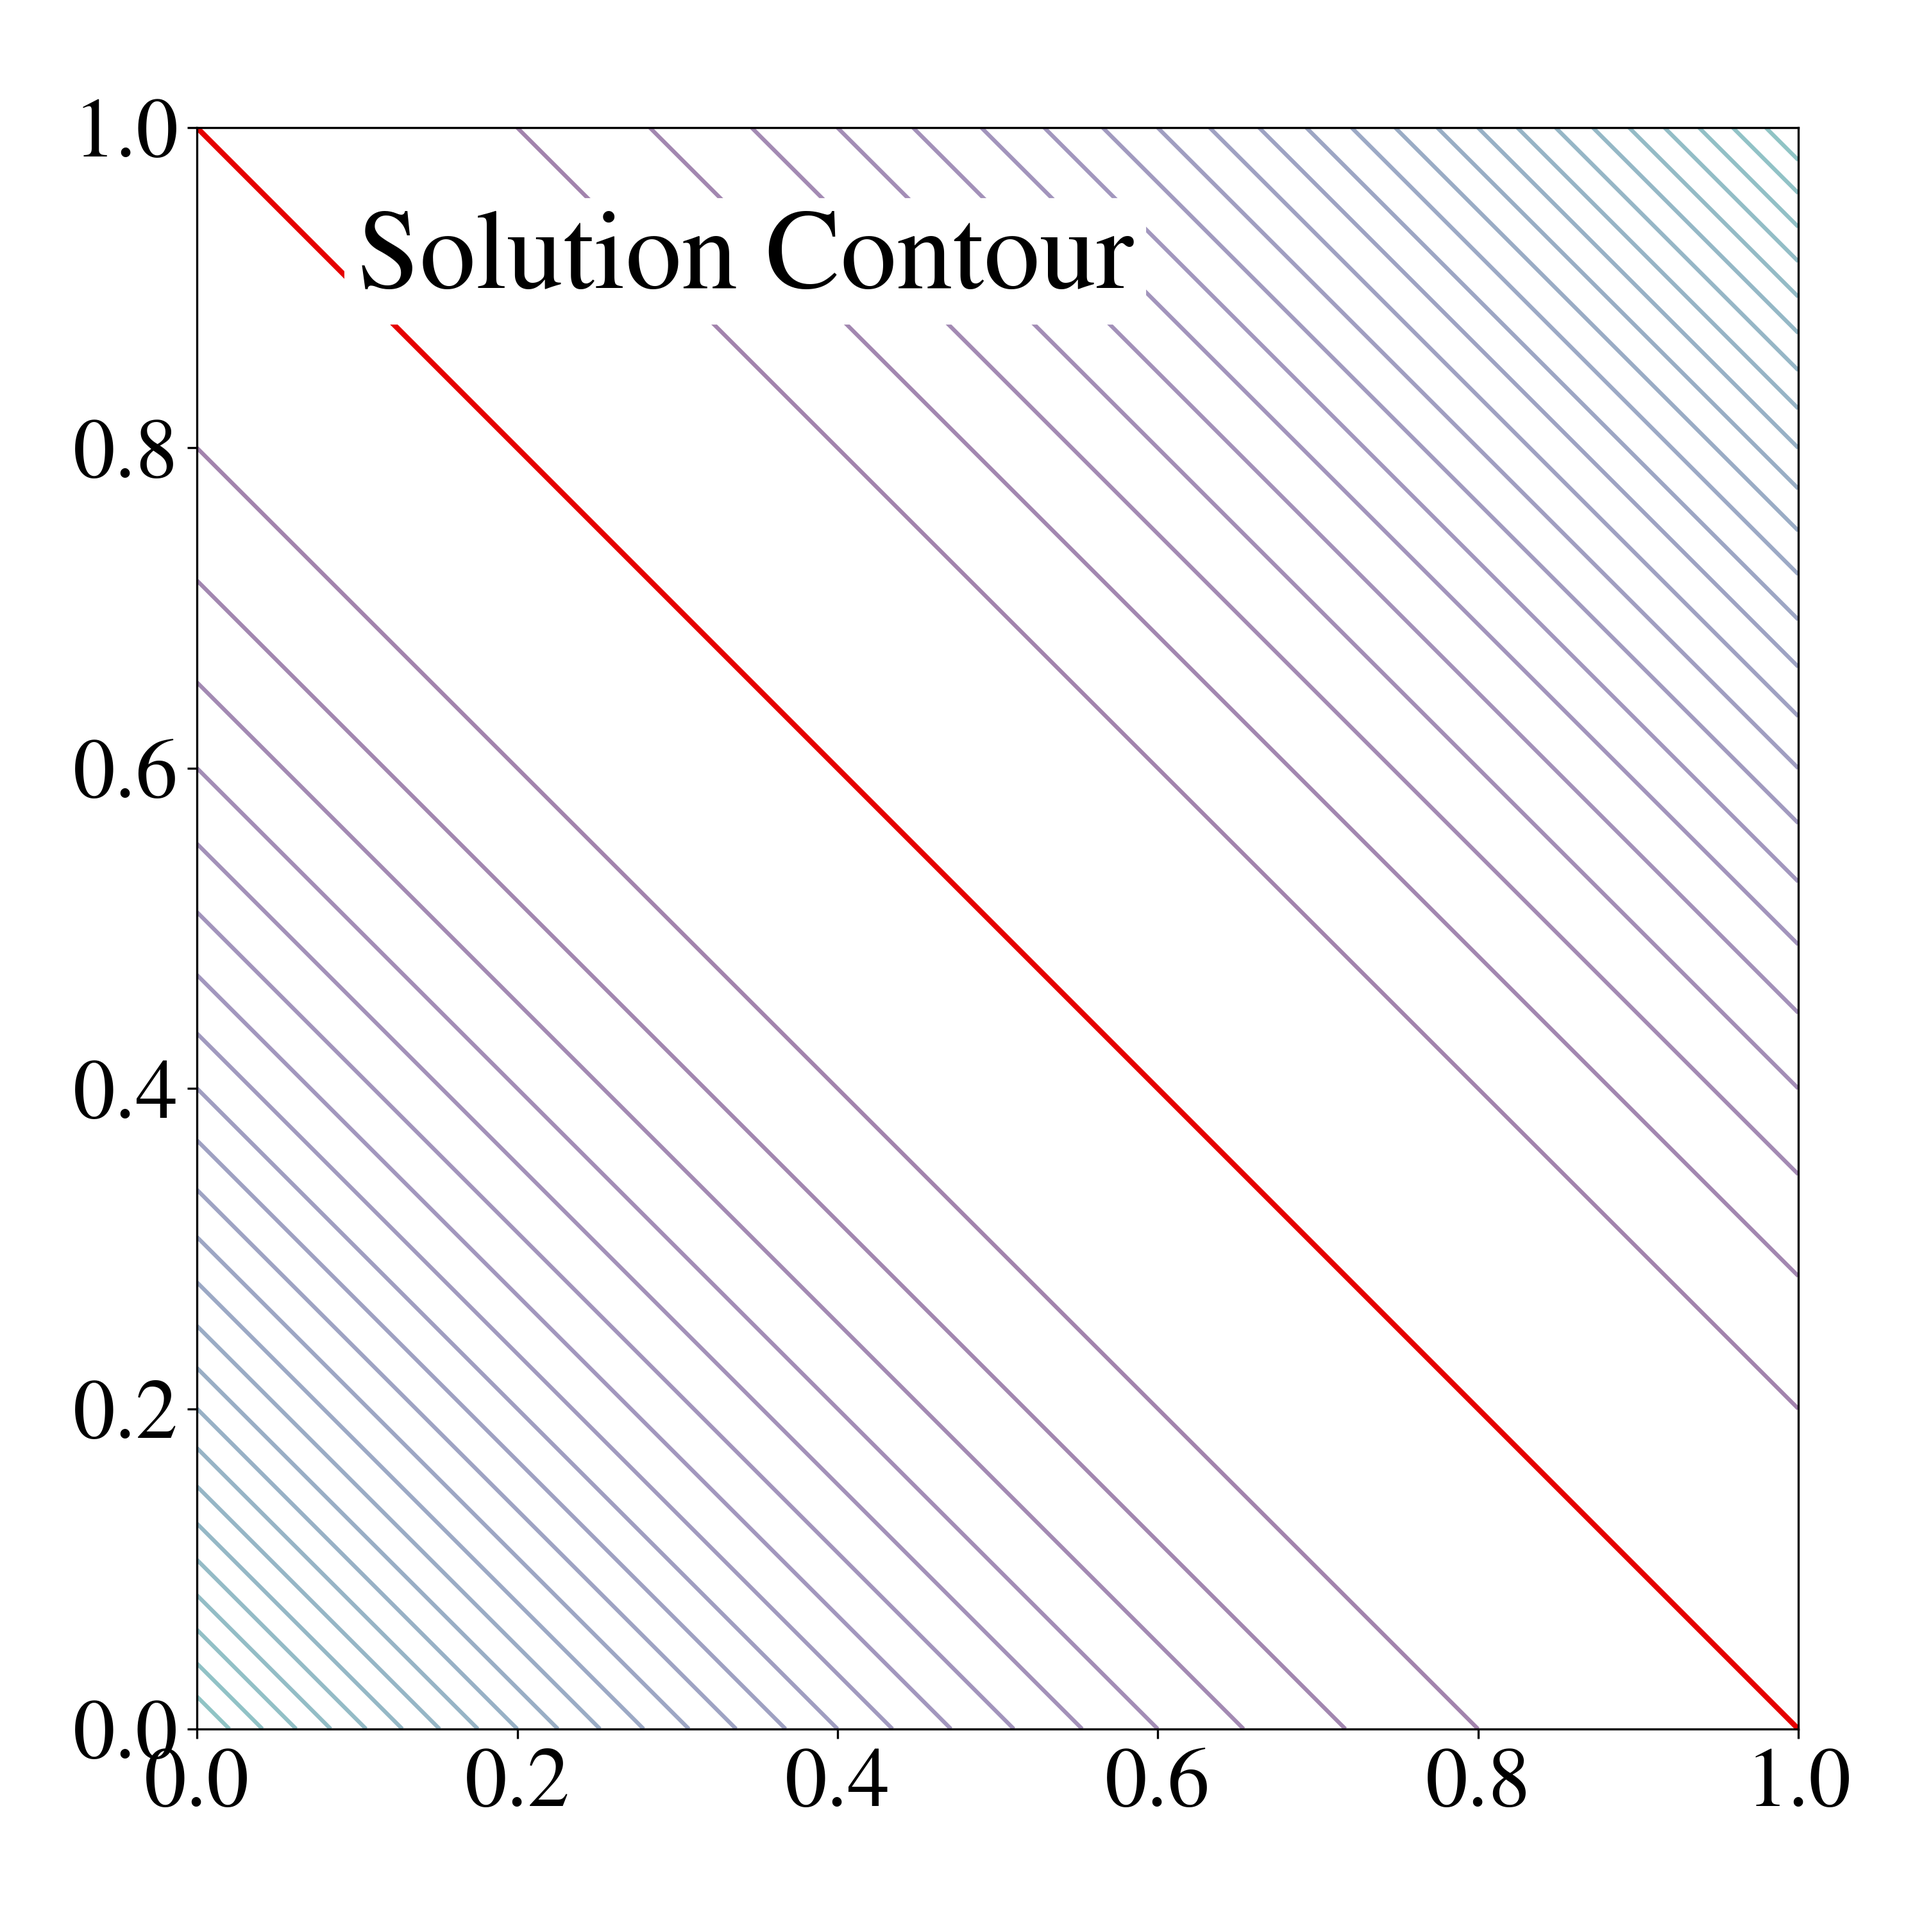
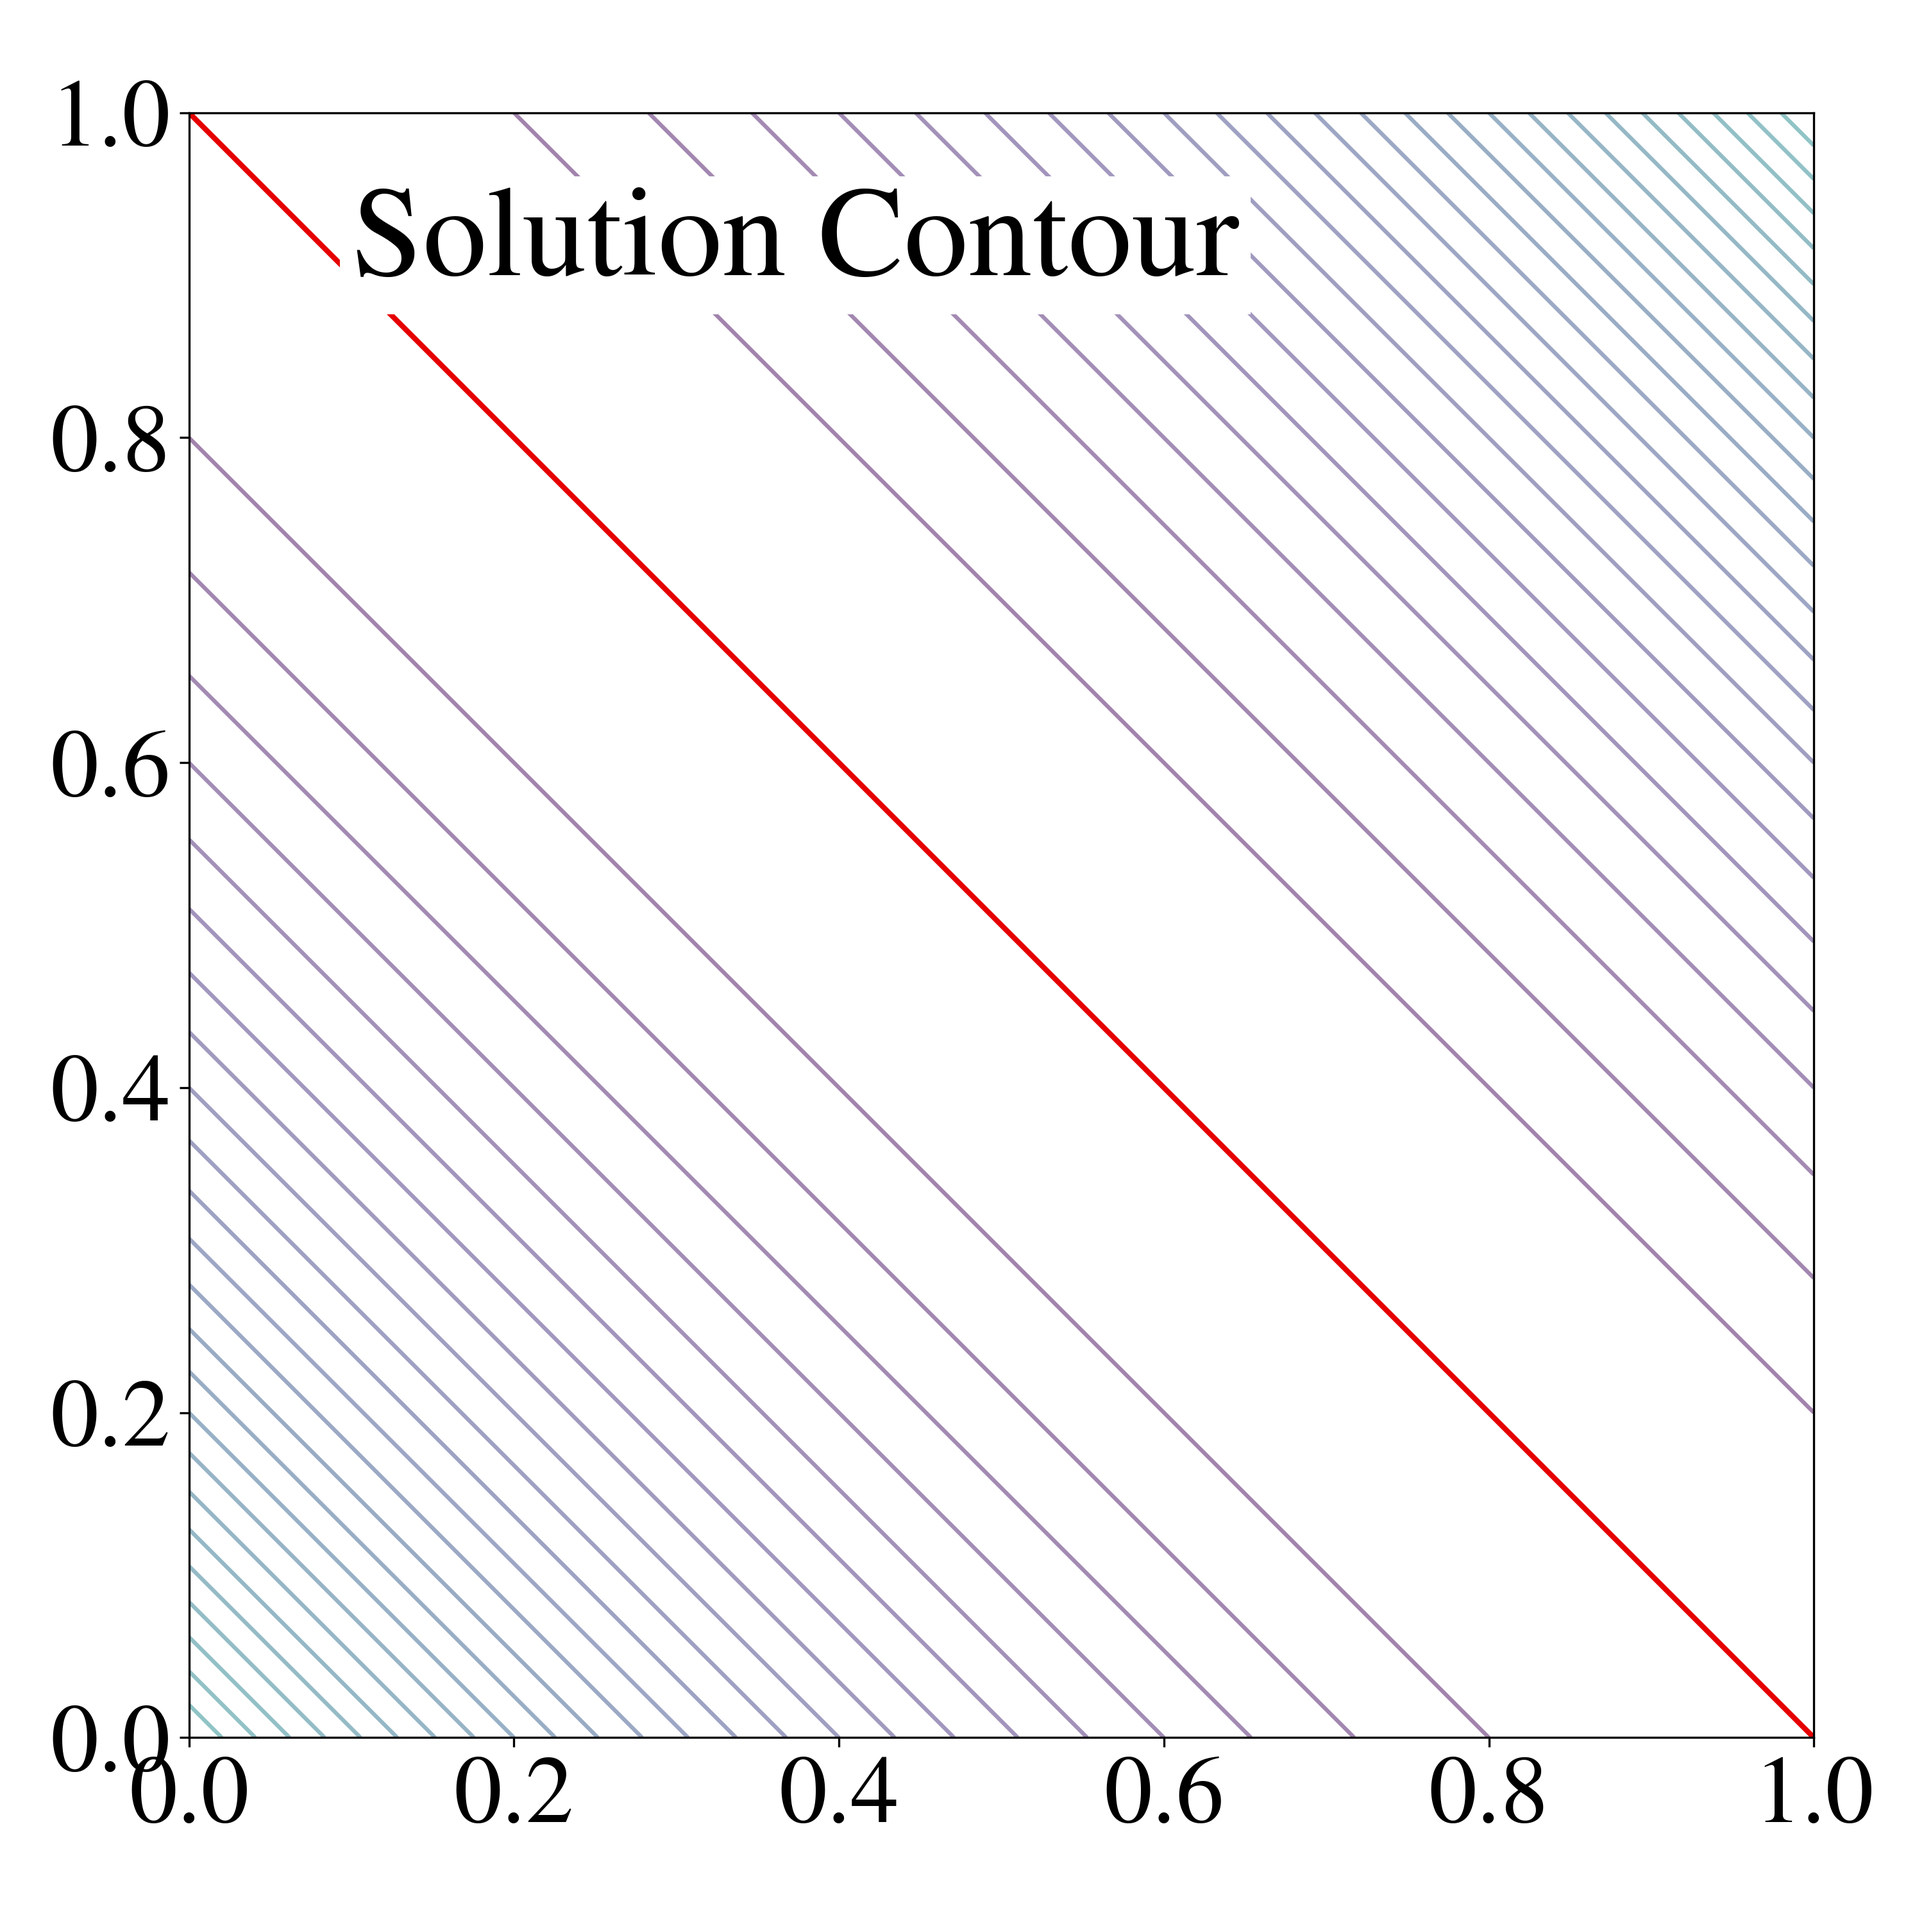
another contour update

diff --git a/figures/mud_contours.py b/figures/mud_contours.py
@@ -16,7 +16,7 @@ def plot_full(A=np.array([[1, 1]]), b=np.zeros((1,1)),
               cov_11=0, cov_01=1,
               initial_mean=np.zeros((1,2)), wt=1, wp=1,
               show_full=True, show_data=True, show_num=False,
-              obs_std=1, figname='latest_figure.png', fsize=42):
+              obs_std=1, figname='latest_figure.png', fsize=48):
     
     std_of_data = [obs_std]
     obs_cov = np.diag(std_of_data)
